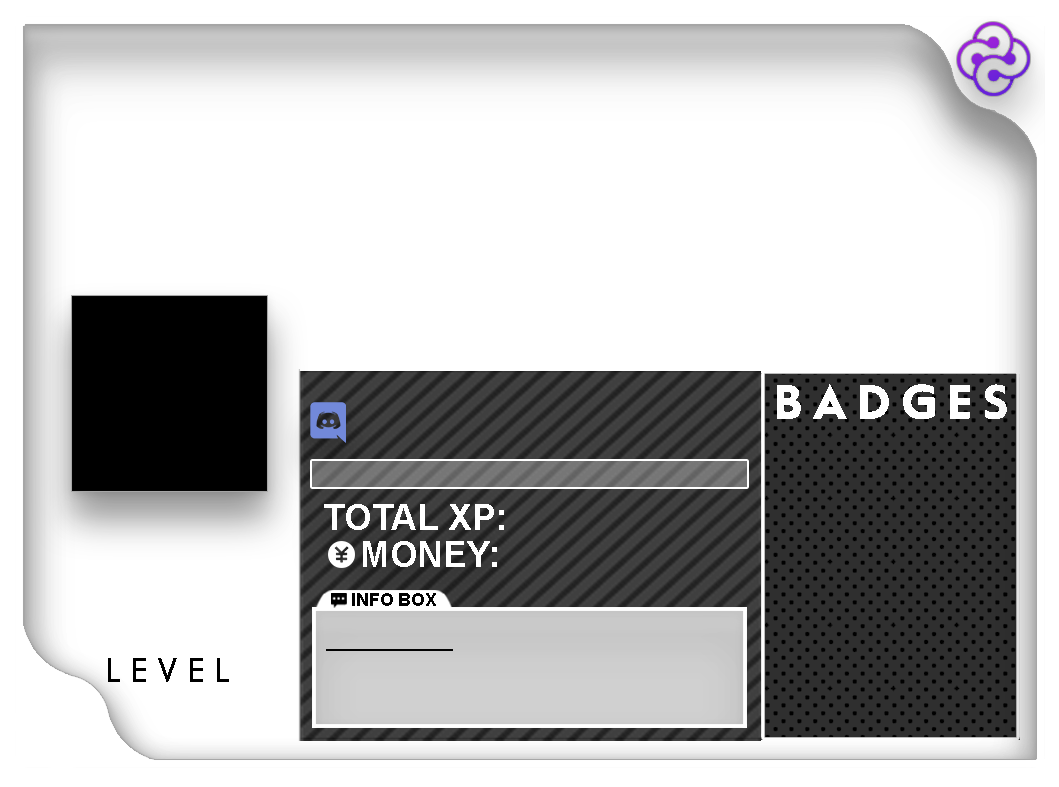
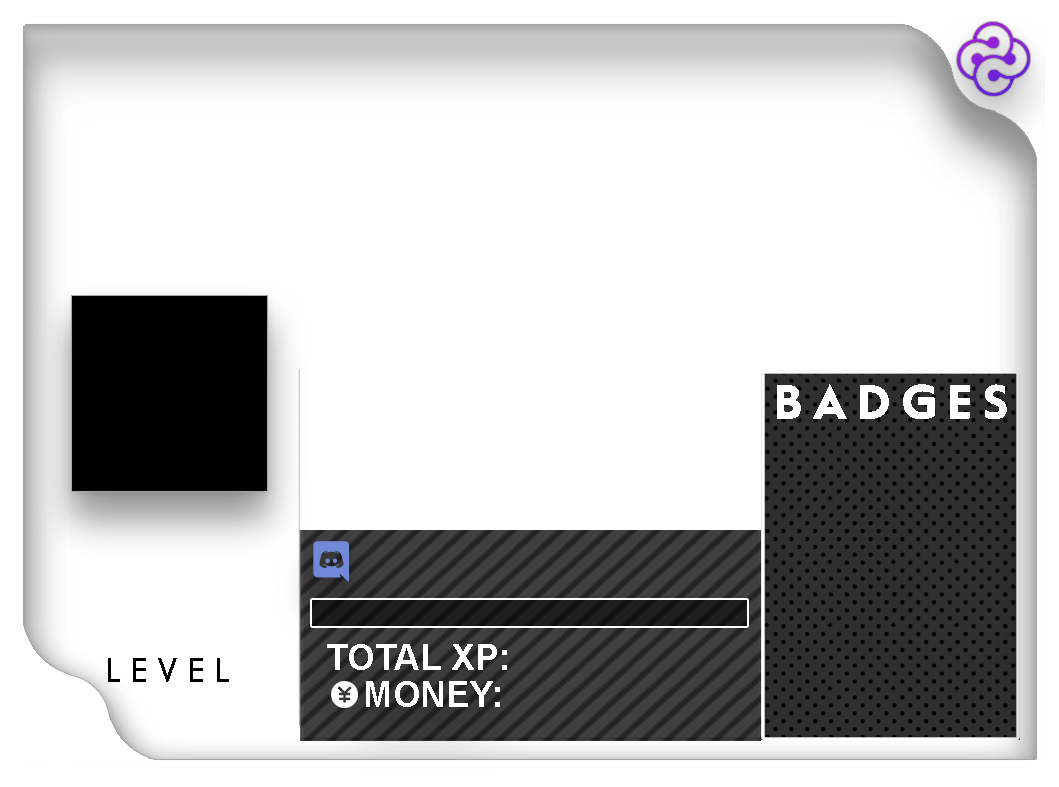
remove info box

Changed region(s): [[0.2805, 0.4574, 0.7167, 0.9454]]

diff --git a/commands/profile.js b/commands/profile.js
@@ -62,14 +62,14 @@ module.exports = {
                 }else{
                     percent = ((exp[id].exp) / (levels[0].exp))
                 }
-                pfCtx.drawImage(img,312,461,(435*percent),26);
+                pfCtx.drawImage(img,312,601,(435*percent),26);
 
                 img.src=fs.readFileSync(`images/numbers/${exp[id].lvl}.png`);
                 pfCtx.drawImage(img,80,500);
 
                 pfCtx.font = '30px "Mizo Arial"';
                 pfCtx.fillStyle = '#ffffff';
-                pfCtx.fillText(nick.join(" "), 353,440);
+                pfCtx.fillText(nick.join(" "), 353,540);
                 pfCtx.fillText(exp[id].exp.toString() + " / " + levels[exp[id].lvl].exp, 506,530);
                 pfCtx.fillText(exp[id].money, 506,568);
 
